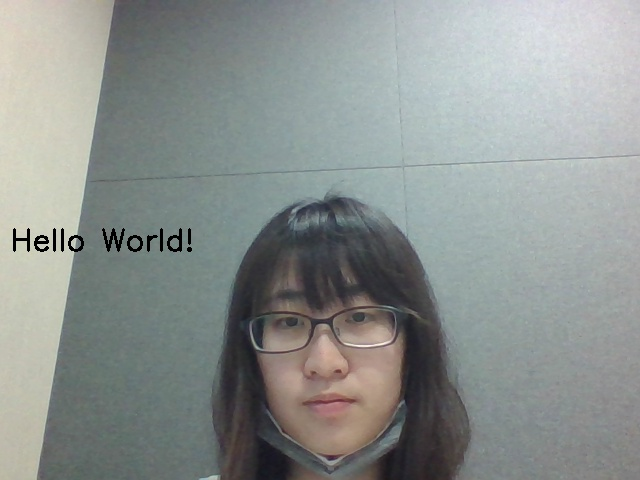
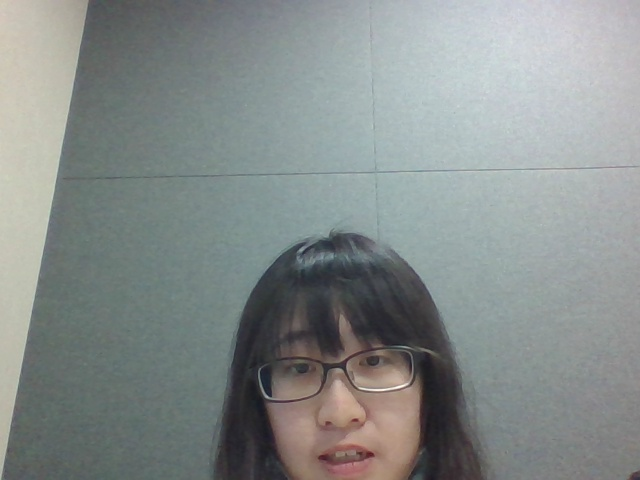
classify cl0ckin.py

diff --git a/cl0ckin.py b/cl0ckin.py
@@ -52,29 +52,34 @@ class FaceIdentifier():
 
 # fider = FaceIdentifier()
 # fider.get_persons_from_image('test.jpg')
+class ClockIn():
+	video_capture = cv2.VideoCapture(0)
+	font                   = cv2.FONT_HERSHEY_SIMPLEX
+	bottomLeftCornerOfText = (10,250)
+	fontScale              = 1
+	fontColor              = (0,0,0)
+	lineType               = 2
+	persons_info = None
 
-video_capture = cv2.VideoCapture(0)
-font                   = cv2.FONT_HERSHEY_SIMPLEX
-bottomLeftCornerOfText = (10,250)
-fontScale              = 1
-fontColor              = (0,0,0)
-lineType               = 2
-print( 'WIDTH',video_capture.get(3),'HEIGHT',video_capture.get(4))
+	def __init__(self):
+		print( 'WIDTH',self.video_capture.get(3),'HEIGHT',self.video_capture.get(4))
+		self.video_capture.set(3,640)
+		self.video_capture.set(4,480)
+	def start(self):
+		while True:
+			ret, frame = self.video_capture.read()
+			if self.persons_info:
+				cv2.putText(frame,'Hello World!',
+			    self.bottomLeftCornerOfText,
+			    self.font,
+			    self.fontScale,
+			    self.fontColor,
+			    self.lineType)
+			cv2.imshow('Company Meeting Check In Sys', frame)
 
-video_capture.set(3,640)
-video_capture.set(4,480)
+			out = cv2.imwrite('capture.jpg', frame)
 
-while True:
-    ret, frame = video_capture.read()
-    cv2.putText(frame,'Hello World!',
-    bottomLeftCornerOfText,
-    font,
-    fontScale,
-    fontColor,
-    lineType)
-    cv2.imshow('Company Meeting Check In Sys', frame)
-
-    out = cv2.imwrite('capture.jpg', frame)
-
-    if cv2.waitKey(1) & 0xFF == ord('q'):
-        break;
+			if cv2.waitKey(1) & 0xFF == ord('q'):
+#TODO periodical polling thread for get_person_info
+clockrun = ClockIn()
+clockrun.start()
